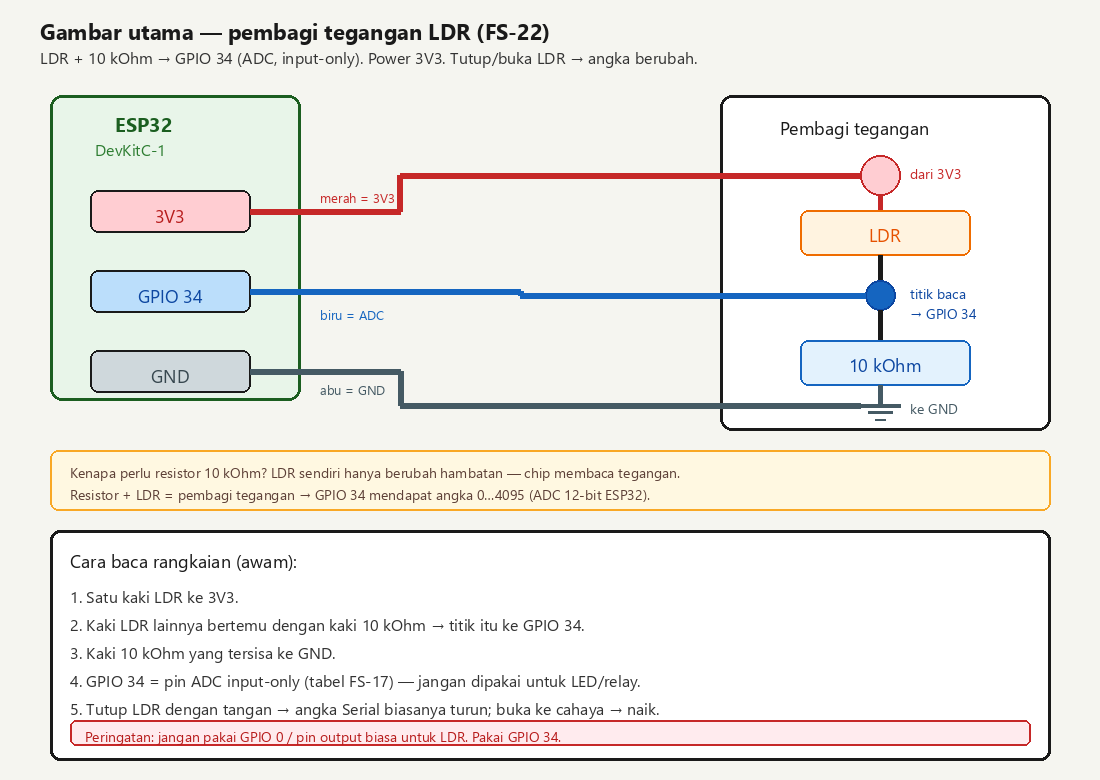
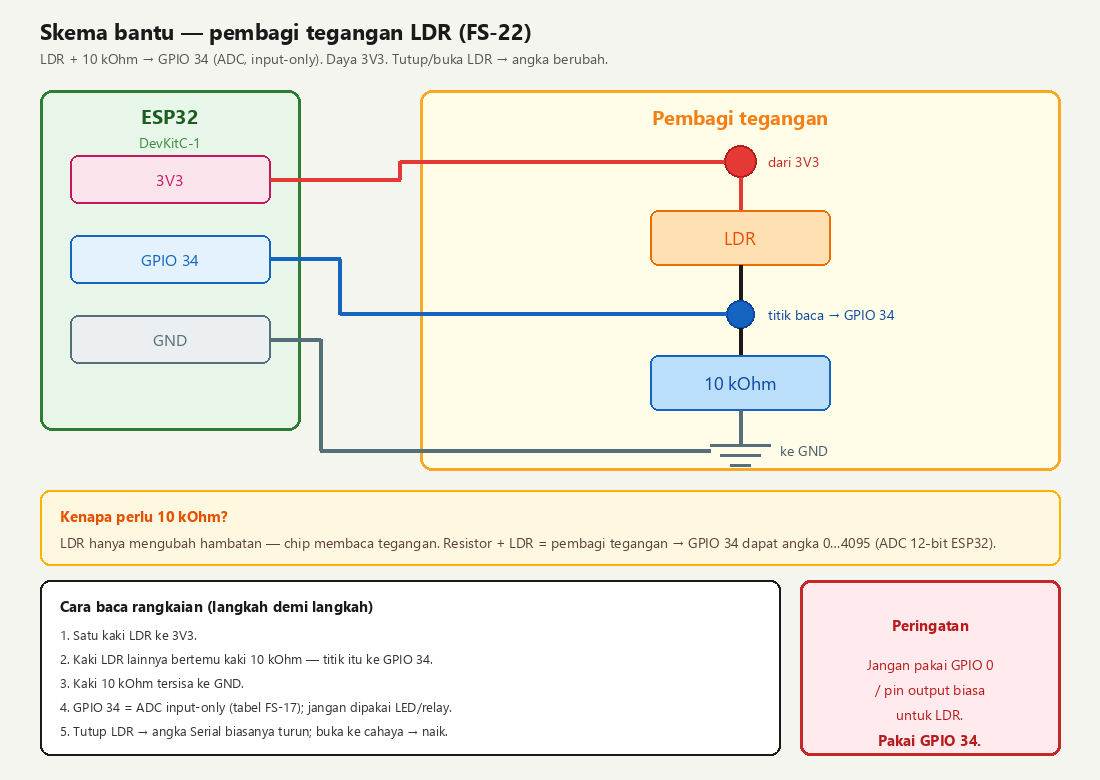
fix(fsiot): #92 QA gambar — skema bantu + prinsip LDR berbahasa Indonesia
Skema PNG tidak lagi bertuliskan Gambar utama/awam; diagram prinsip diganti label Indonesia; layout foto kit dirapikan.

Changed region(s): [[0.0309, 0.0308, 0.9582, 0.9846], [0.4018, 0.8, 0.5255, 0.8308], [0.2473, 0.3077, 0.3091, 0.3385]]

diff --git a/database/seeders/Article92Seeder.php b/database/seeders/Article92Seeder.php
@@ -134,14 +134,14 @@ HTML;
     {
         return <<<'HTML'
 <figure style="margin:1.5rem 0;max-width:100%;background:#F5F5F0;border:2.5px solid #1a1a1a;border-radius:8px;padding:0.75rem">
-  <div style="display:grid;grid-template-columns:1fr 1fr;gap:0.75rem;align-items:start">
-    <div>
-      <img src="/images/fsiot/kit-ldr.jpg" width="900" height="600" alt="Komponen LDR / photoresistor" loading="eager" style="display:block;width:100%;height:auto;max-height:260px;object-fit:contain;border:2.5px solid #1a1a1a;border-radius:8px;background:#fff;padding:0.5rem;margin:0 auto">
-      <p style="font-size:0.8rem;margin:0.35rem 0 0;color:#1a1a1a;text-align:center"><strong>LDR</strong> — “mata” cahaya (photoresistor)</p>
+  <div style="display:grid;grid-template-columns:1fr 1fr;gap:0.75rem;align-items:stretch">
+    <div style="background:#fff;border:2.5px solid #1a1a1a;border-radius:8px;padding:0.5rem;display:flex;flex-direction:column">
+      <img src="/images/fsiot/kit-ldr.jpg" width="900" height="600" alt="Komponen LDR / photoresistor" loading="eager" style="display:block;width:100%;height:220px;object-fit:contain;margin:0 auto;background:#fff">
+      <p style="font-size:0.8rem;margin:0.5rem 0 0;color:#1a1a1a;text-align:center"><strong>LDR</strong> — “mata” cahaya (photoresistor)</p>
     </div>
-    <div>
-      <img src="/images/fsiot/kit-resistor-10kohm.jpg" width="800" height="600" alt="Resistor 10 kOhm untuk pembagi tegangan" loading="eager" style="display:block;width:100%;height:auto;max-height:260px;object-fit:contain;border:2.5px solid #1a1a1a;border-radius:8px;background:#fff;padding:0.5rem;margin:0 auto">
-      <p style="font-size:0.8rem;margin:0.35rem 0 0;color:#1a1a1a;text-align:center"><strong>10 kΩ</strong> — pasangan pembagi tegangan (wajib di latihan ini)</p>
+    <div style="background:#fff;border:2.5px solid #1a1a1a;border-radius:8px;padding:0.5rem;display:flex;flex-direction:column">
+      <img src="/images/fsiot/kit-resistor-10kohm.jpg" width="800" height="600" alt="Resistor 10 kOhm untuk pembagi tegangan" loading="eager" style="display:block;width:100%;height:220px;object-fit:contain;margin:0 auto;background:#fff">
+      <p style="font-size:0.8rem;margin:0.5rem 0 0;color:#1a1a1a;text-align:center"><strong>10 kΩ</strong> — pasangan pembagi tegangan (wajib di latihan ini)</p>
     </div>
   </div>
   <figcaption style="font-size:0.85rem;margin-top:0.5rem;color:#1a1a1a;">
@@ -156,14 +156,14 @@ HTML;
     {
         return <<<'HTML'
 <figure style="margin:1.5rem 0;max-width:100%;background:#F5F5F0;border:2.5px solid #1a1a1a;border-radius:8px;padding:0.75rem">
-  <div style="display:grid;grid-template-columns:1fr 1fr;gap:0.75rem;align-items:start">
-    <div>
-      <img src="/images/fsiot/kit-ldr.jpg" width="900" height="600" alt="LDR / photoresistor component" loading="eager" style="display:block;width:100%;height:auto;max-height:260px;object-fit:contain;border:2.5px solid #1a1a1a;border-radius:8px;background:#fff;padding:0.5rem;margin:0 auto">
-      <p style="font-size:0.8rem;margin:0.35rem 0 0;color:#1a1a1a;text-align:center"><strong>LDR</strong> — light “eye” (photoresistor)</p>
+  <div style="display:grid;grid-template-columns:1fr 1fr;gap:0.75rem;align-items:stretch">
+    <div style="background:#fff;border:2.5px solid #1a1a1a;border-radius:8px;padding:0.5rem;display:flex;flex-direction:column">
+      <img src="/images/fsiot/kit-ldr.jpg" width="900" height="600" alt="LDR / photoresistor component" loading="eager" style="display:block;width:100%;height:220px;object-fit:contain;margin:0 auto;background:#fff">
+      <p style="font-size:0.8rem;margin:0.5rem 0 0;color:#1a1a1a;text-align:center"><strong>LDR</strong> — light “eye” (photoresistor)</p>
     </div>
-    <div>
-      <img src="/images/fsiot/kit-resistor-10kohm.jpg" width="800" height="600" alt="10 kOhm resistor for voltage divider" loading="eager" style="display:block;width:100%;height:auto;max-height:260px;object-fit:contain;border:2.5px solid #1a1a1a;border-radius:8px;background:#fff;padding:0.5rem;margin:0 auto">
-      <p style="font-size:0.8rem;margin:0.35rem 0 0;color:#1a1a1a;text-align:center"><strong>10 kΩ</strong> — voltage-divider partner (required in this lesson)</p>
+    <div style="background:#fff;border:2.5px solid #1a1a1a;border-radius:8px;padding:0.5rem;display:flex;flex-direction:column">
+      <img src="/images/fsiot/kit-resistor-10kohm.jpg" width="800" height="600" alt="10 kOhm resistor for voltage divider" loading="eager" style="display:block;width:100%;height:220px;object-fit:contain;margin:0 auto;background:#fff">
+      <p style="font-size:0.8rem;margin:0.5rem 0 0;color:#1a1a1a;text-align:center"><strong>10 kΩ</strong> — voltage-divider partner (required in this lesson)</p>
     </div>
   </div>
   <figcaption style="font-size:0.85rem;margin-top:0.5rem;color:#1a1a1a;">
@@ -230,10 +230,10 @@ HTML;
     {
         return <<<'HTML'
 <figure style="margin:1.5rem 0;max-width:100%;background:#F5F5F0;border:2.5px solid #1a1a1a;border-radius:8px;padding:0.75rem">
-  <img src="/images/fsiot/fs22-ldr-principle.png" width="544" height="318" alt="Prinsip photoresistor / LDR" loading="eager" style="display:block;width:100%;max-width:560px;height:auto;margin:0 auto;border:2.5px solid #1a1a1a;border-radius:8px;background:#fff;padding:0.5rem">
+  <img src="/images/fsiot/fs22-ldr-principle.png" width="900" height="520" alt="Prinsip LDR — cahaya mengubah hambatan di jalur zigzag" loading="eager" style="display:block;width:100%;max-width:720px;height:auto;margin:0 auto;border:2.5px solid #1a1a1a;border-radius:8px;background:#fff;padding:0.5rem">
   <figcaption style="font-size:0.85rem;margin-top:0.5rem;color:#1a1a1a;">
     <strong>Intinya:</strong> LDR mengubah hambatan saat cahaya berubah — chip tidak “melihat” hambatan langsung, melainkan tegangan dari pembagi.
-    <br>Sumber gambar: <a href="https://commons.wikimedia.org/wiki/File:LDR-1.png" rel="noopener noreferrer" target="_blank">LDR-1.png</a> · Wikimedia Commons (CC0) · TSE3A.
+    <br>Sumber gambar: diagram konsep buatan Koding Indonesia (FS-22), terinspirasi bentuk permukaan photoresistor.
   </figcaption>
 </figure>
 HTML;
@@ -243,10 +243,10 @@ HTML;
     {
         return <<<'HTML'
 <figure style="margin:1.5rem 0;max-width:100%;background:#F5F5F0;border:2.5px solid #1a1a1a;border-radius:8px;padding:0.75rem">
-  <img src="/images/fsiot/fs22-ldr-principle.png" width="544" height="318" alt="Photoresistor / LDR principle" loading="eager" style="display:block;width:100%;max-width:560px;height:auto;margin:0 auto;border:2.5px solid #1a1a1a;border-radius:8px;background:#fff;padding:0.5rem">
+  <img src="/images/fsiot/fs22-ldr-principle.png" width="900" height="520" alt="LDR principle — light changes resistance on the zigzag track" loading="eager" style="display:block;width:100%;max-width:720px;height:auto;margin:0 auto;border:2.5px solid #1a1a1a;border-radius:8px;background:#fff;padding:0.5rem">
   <figcaption style="font-size:0.85rem;margin-top:0.5rem;color:#1a1a1a;">
     <strong>In short:</strong> an LDR changes resistance with light — the chip does not “see” resistance directly; it reads voltage from the divider.
-    <br>Image source: <a href="https://commons.wikimedia.org/wiki/File:LDR-1.png" rel="noopener noreferrer" target="_blank">LDR-1.png</a> · Wikimedia Commons (CC0) · TSE3A.
+    <br>Image source: concept diagram by Koding Indonesia (FS-22), inspired by a photoresistor surface shape.
   </figcaption>
 </figure>
 HTML;

diff --git a/scripts/audit-article92.php b/scripts/audit-article92.php
@@ -75,6 +75,8 @@ check('IDE asset', str_contains($id, 'fs11-ide-overview-cite.png') && is_file(__
 check('board overview', str_contains($id, 'esp32-devkitc-overview.jpg') && is_file(__DIR__.'/../public/images/fsiot/esp32-devkitc-overview.jpg'));
 check('Commons LDR cite', str_contains($id, 'commons.wikimedia.org') && str_contains($en, 'commons.wikimedia.org'));
 check('KI diagram cite', str_contains($id, 'buatan Koding Indonesia') && str_contains($en, 'diagram by Koding Indonesia'));
+check('helper title not main in PNG path', str_contains($id, 'Skema bantu') && str_contains($en, 'Helper schematic'));
+check('no awam in wiring body', ! str_contains($id, '(awam)') && ! str_contains($en, '(awam)'));
 check('Arduino analogRead cite', str_contains($id, 'analogRead') && str_contains($en, 'analogRead'));
 
 check('sketch FS22_ldr_adc', str_contains($id, 'FS22_ldr_adc') && str_contains($en, 'FS22_ldr_adc'));
